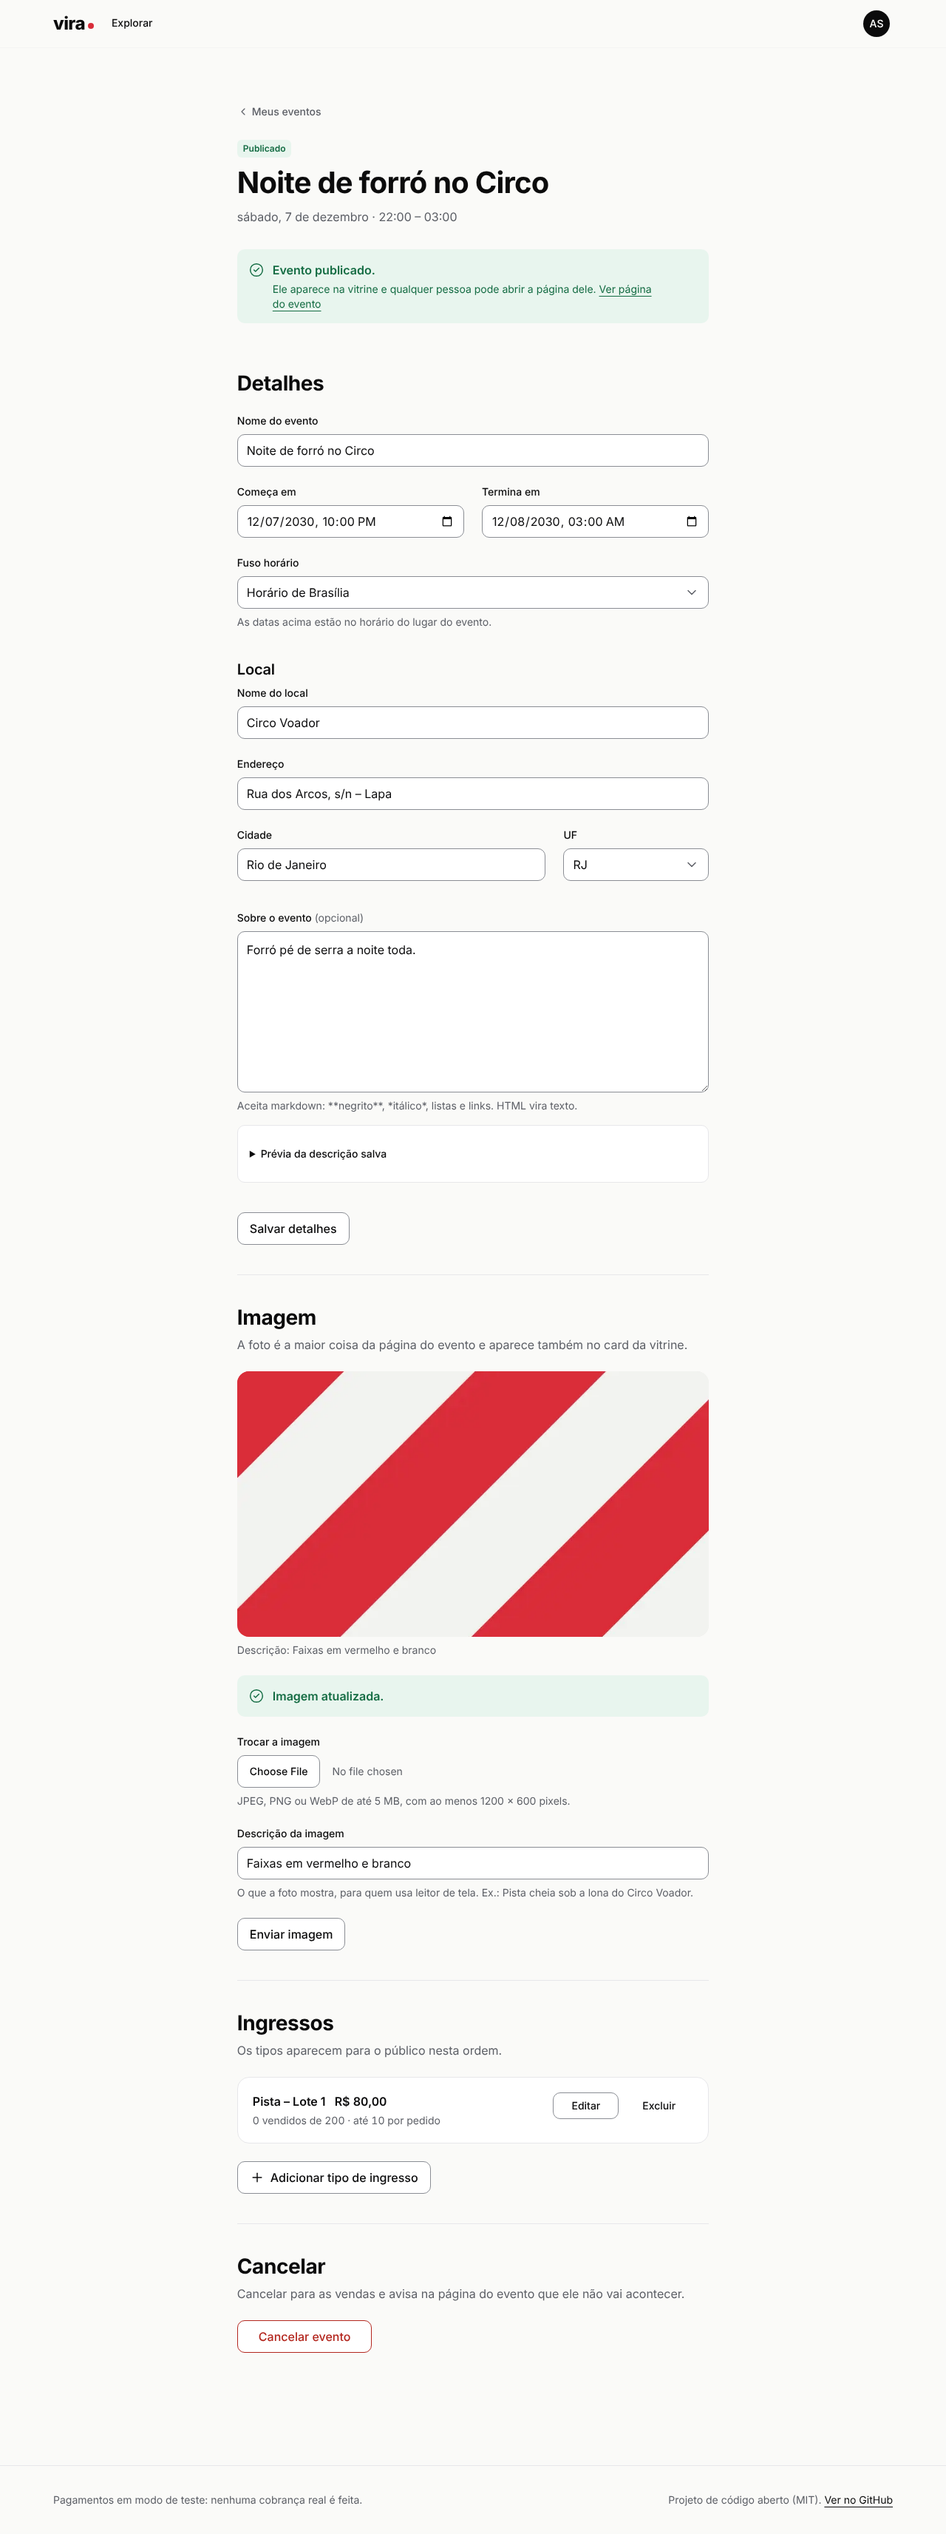
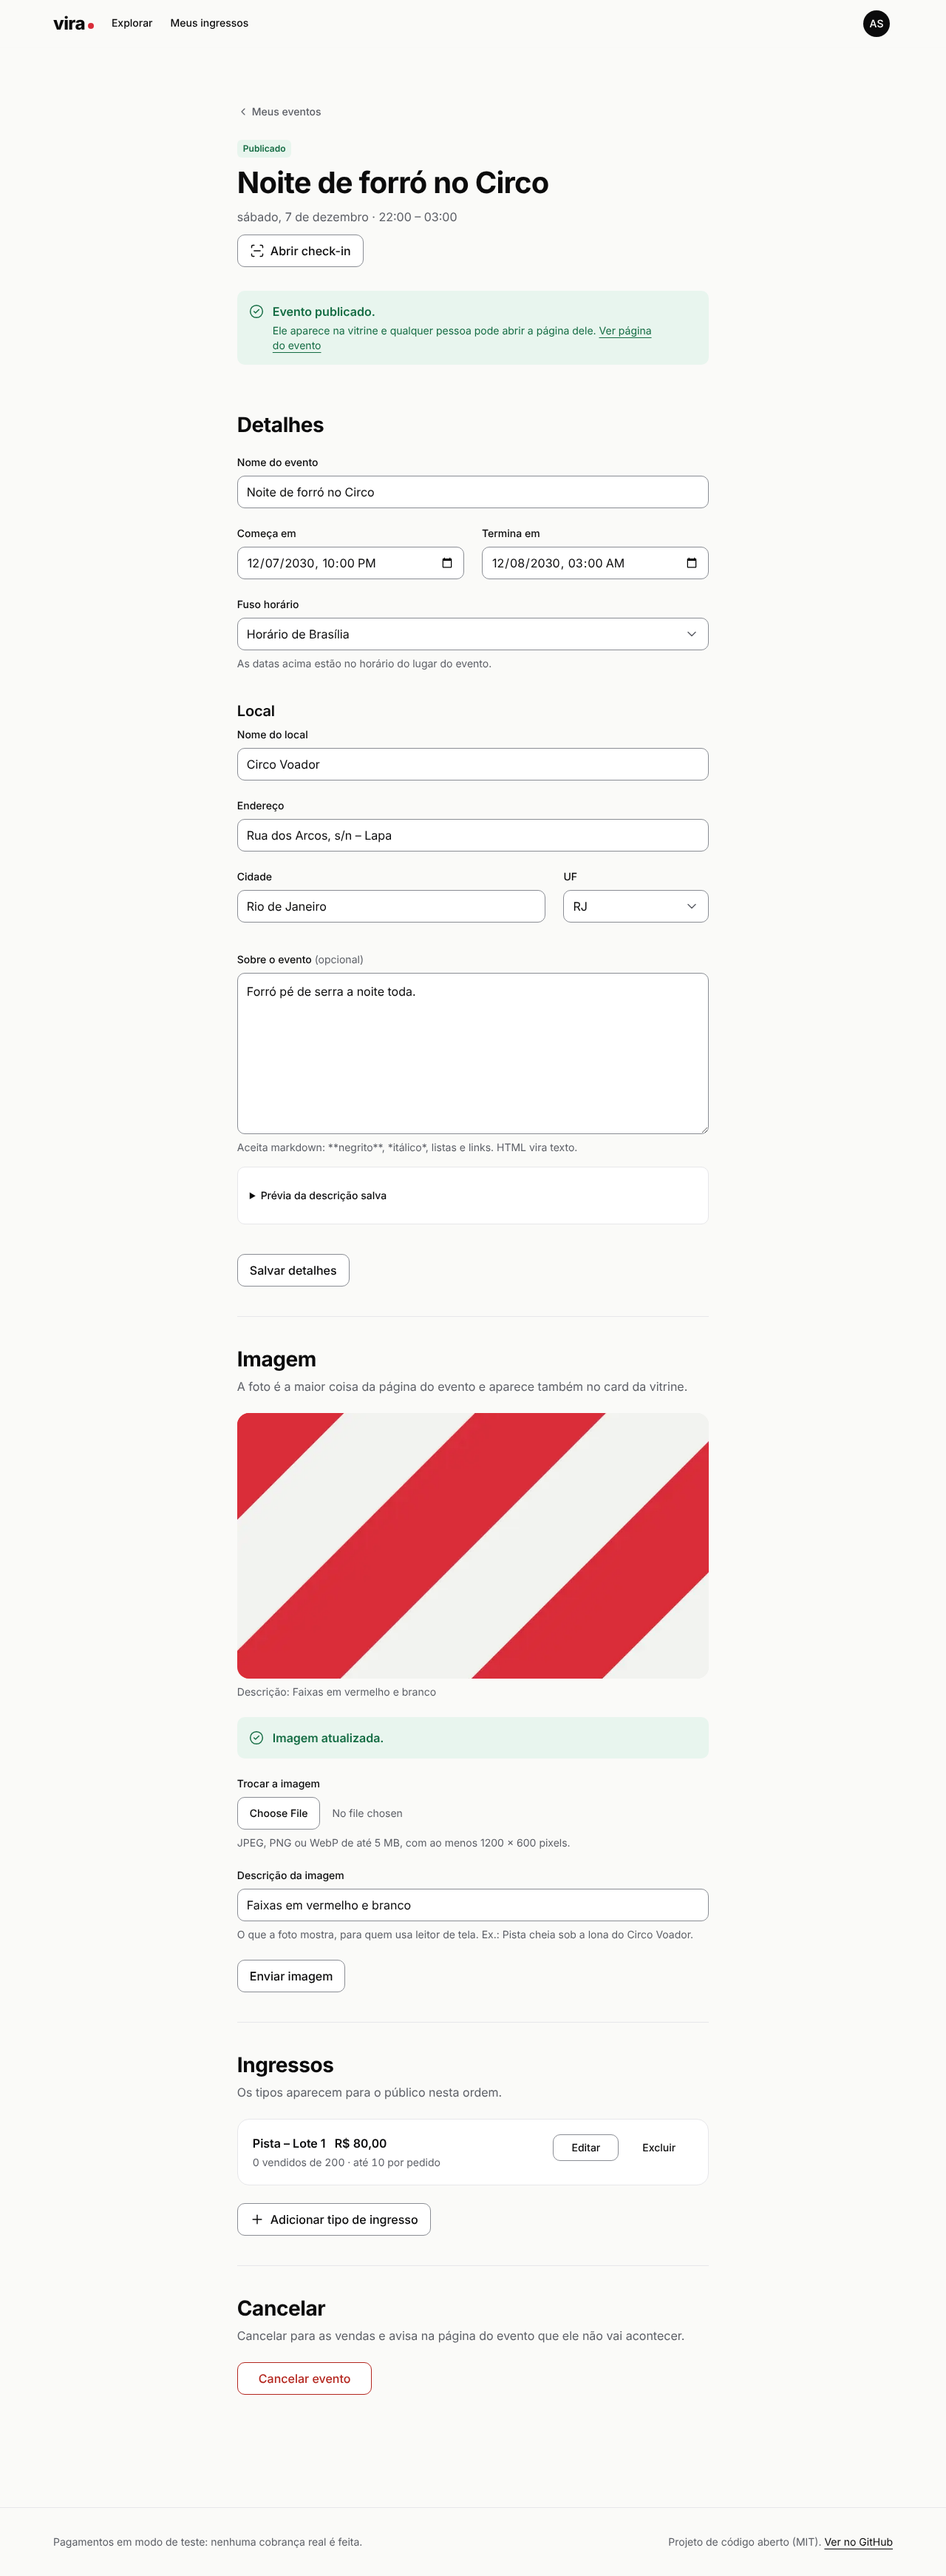
docs: describe the check-in
API, data model, security headers, design, roadmap and progress for
V8, with the screenshots of the door.

Claude-Session: https://claude.ai/code/session_01DPz6t3jfcjAA8iLnBWb4iy

diff --git a/PROGRESS.md b/PROGRESS.md
@@ -5,9 +5,9 @@ Arquivo para retomar o trabalho em outra sessão. **No início de cada sessão:*
 ## Estado atual
 
 - **Marco:** 2 — MVP público v1.0 (o Marco 1 terminou com a N13).
-- **Concluído (mergeado):** F1 a F7, N1 a N13, V1 a V6 (PRs #1, #2, #8, #10–#17, #26–#30, #32–#41) e Dependabot (#4–#7, #9 CodeQL v4). V7 no PR de meus ingressos (`feat/web-tickets`).
-- **Entregas abertas:** V7.
-- **Próximo passo:** V8 — Check-in (`feat/checkin`).
+- **Concluído (mergeado):** F1 a F7, N1 a N13, V1 a V7 (PRs #1, #2, #8, #10–#17, #26–#30, #32–#42) e Dependabot (#4–#7, #9 CodeQL v4). V8 no PR do check-in (`feat/checkin`).
+- **Entregas abertas:** V8.
+- **Próximo passo:** V9 — Direitos LGPD (`feat/users-privacy`).
 - **Bloqueios / pendências do mantenedor:** Docker Desktop não sobe nesta máquina pela sessão do agente (precisa ser iniciado pelo usuário); os testes de integração (Testcontainers) e o job de `docker compose` rodam só no CI até lá.
 
 ## Regras que valem sempre
@@ -22,6 +22,25 @@ Arquivo para retomar o trabalho em outra sessão. **No início de cada sessão:*
 - Código e commits em inglês; documentação em português (README também em inglês).
 
 ## Registro
+
+### 2026-10-22 — V8: check-in
+
+Auditoria (antes de codar): o QR assinado (ADR-0008) e o `verifyQrToken` já existiam (V5), assim como a ação de auditoria `ticket.checked_in`; faltavam a tabela `checkin_attempts`, as rotas e a tela. O `Permissions-Policy` desligava a câmera em todo o site.
+
+Feito:
+
+- API: módulo `checkin` com `POST /checkin/scan` e `POST /checkin/code` (só o organizador dono do evento; evento alheio responde `404`) e `GET /organizer/events/{id}/checkin/stats`. A entrada é decidida por um único `UPDATE ... WHERE status = 'VALID' AND event_id AND qr_nonce`; toda leitura vai para `checkin_attempts` (migração nova, com `CHECK` de que `VALID`/`ALREADY_USED`/`WRONG_EVENT` sempre nomeiam o ingresso) e cada entrada é auditada. Rate limit por operador: 120/min no QR, 20/min no código, gasto antes de qualquer consulta. O token passa pelo `QrTokens` do módulo `tickets` (API pública nova), que verifica com todas as chaves de `QR_SIGNING_KEYS`.
+- Contratos em `@vira/shared` (`checkin.ts`), com `normalizeTicketCode` (maiúsculas, prefixo, traços e O/I/L lidos como 0/1).
+- Web: `/painel/eventos/{id}/check-in` (link "Abrir check-in" no evento publicado ou encerrado), câmera ligada pelo operador e lida com jsQR (carregado só nessa página), código digitado, resultado em cor + ícone + texto grande (`aria-live="assertive"`, vibração curta), "Ler próximo", contagem de entradas e últimas leituras. Só esse caminho recebe `camera=(self)`.
+- Testes: unidade do `judge` e do caso de uso (corrida simulada, token forjado, limites); integração com Postgres real (duas leituras simultâneas → 1 `VALID` e 1 `ALREADY_USED`; oito misturando QR e código → 1 entrada; byte alterado, nonce trocado, outro evento, cancelado, autorização, 21º código → `429`, auditoria); E2E com a câmera falsa do Chromium lendo um QR de verdade (Y4M gerado no teste), códigos, todos os resultados, `Permissions-Policy`, axe; prints.
+
+Decisões tomadas por conta própria:
+
+- **Código de outro organizador responde `INVALID`**, não `WRONG_EVENT`: assim a digitação manual não serve para descobrir quais códigos existem. Entre eventos do mesmo organizador, e para QR assinado, `WRONG_EVENT`.
+- **Cancelado é `INVALID` com o ingresso** (titular, tipo e código), para o operador saber o que dizer; a resposta não ganhou um quinto resultado.
+- **Leitura pausa depois de cada resultado** até "Ler próximo": o mesmo QR parado na frente da câmera não vira um "Já utilizado" logo depois do "Válido".
+- **Câmera só com um toque** em "Ligar câmera", nunca ao abrir a página; sem câmera ou sem permissão, a tela manda para o código digitado.
+- **Check-in aberto também em evento encerrado** (há quem chegue atrasado); rascunho e cancelado mostram um aviso.
 
 ### 2026-10-22 — V7: meus ingressos e ingresso digital
 

diff --git a/docs/SECURITY_MODEL.md b/docs/SECURITY_MODEL.md
@@ -161,7 +161,7 @@ Decisões tomadas e riscos aceitos, para o revisor não precisar redescobri-los:
 | Autorização | Guard global "negar por padrão": toda rota declara `@Public()` ou um papel; teste automatizado falha se alguma rota não declarar. Posse verificada em `application` com políticas por recurso. |
 | Validação | Zod estrito (`.strict()`) em corpo, query e params; limites de tamanho em todos os textos e arrays. |
 | Markdown | `markdown-it` com HTML desligado → `sanitize-html` com allowlist (`p`, `strong`, `em`, `ul`, `ol`, `li`, `a[href]`, `h3`, `h4`, `blockquote`, `br`); links com `rel="noopener noreferrer nofollow ugc"`; só `https:` e `mailto:`. Renderizado no servidor e salvo; o web não usa `dangerouslySetInnerHTML` com conteúdo não sanitizado. Títulos `#` e `##` viram `h3` (o `h1` e o `h2` são da página); imagens somem; link para outro esquema fica só com o texto. Testado com payloads XSS em `sanitized-markdown-renderer.test.ts` e, contra o banco, em `events.int.test.ts`. |
-| Cabeçalhos | Helmet na API; no web: CSP com nonce gerado a cada requisição em `src/proxy.ts` (implementado no F7 com `default-src 'self'`, `script-src 'self' 'nonce-…' 'strict-dynamic'`, `object-src 'none'`, `base-uri 'none'`, `frame-ancestors 'none'`; os domínios do Stripe entram no checkout, V6). O `style-src` leva só `self` e o nonce (sem `unsafe-inline` em produção): por isso os componentes de interface não escrevem `style` inline no HTML do servidor e o `<style>` do travamento de rolagem dos modais recebe o nonce (N2). Desenho completo: (`default-src 'self'; script-src 'self' 'nonce-…' https://js.stripe.com; frame-src https://js.stripe.com https://hooks.stripe.com; img-src 'self' data: <cdn do R2>; connect-src 'self' https://api.stripe.com; object-src 'none'; base-uri 'none'; frame-ancestors 'none'`), HSTS, `Referrer-Policy: strict-origin-when-cross-origin`, `Permissions-Policy` (câmera só na rota de check-in). |
+| Cabeçalhos | Helmet na API; no web: CSP com nonce gerado a cada requisição em `src/proxy.ts` (implementado no F7 com `default-src 'self'`, `script-src 'self' 'nonce-…' 'strict-dynamic'`, `object-src 'none'`, `base-uri 'none'`, `frame-ancestors 'none'`; os domínios do Stripe entram no checkout, V6). O `style-src` leva só `self` e o nonce (sem `unsafe-inline` em produção): por isso os componentes de interface não escrevem `style` inline no HTML do servidor e o `<style>` do travamento de rolagem dos modais recebe o nonce (N2). Desenho completo: (`default-src 'self'; script-src 'self' 'nonce-…' https://js.stripe.com; frame-src https://js.stripe.com https://hooks.stripe.com; img-src 'self' data: <cdn do R2>; connect-src 'self' https://api.stripe.com; object-src 'none'; base-uri 'none'; frame-ancestors 'none'`), HSTS, `Referrer-Policy: strict-origin-when-cross-origin`, `Permissions-Policy` (câmera só na rota de check-in: `camera=(self)` em `/painel/eventos/:id/check-in`, `camera=()` no resto, V8). |
 | CORS | Somente a origem do web; credenciais permitidas; webhook sem CORS. |
 | Limites | Body JSON 100 kB; paginação máx. 50; timeouts de requisição 10 s; consultas com `statement_timeout` de 5 s. |
 | Upload | URL pré-assinada de `PUT` com `Content-Type` e `Content-Length` fixados na assinatura, expiração de 5 min, chave gerada pelo servidor; bucket privado, com CORS só para o `WEB_ORIGIN` e só `PUT`; confirmação lê o objeto pela chave guardada (nunca uma URL do cliente), valida tamanho, magic bytes e dimensões, decodifica com limite de 40 megapixels (contra "pixel bombs"); imagens re-encodadas para WebP (remove EXIF/GPS) antes de servir, e o original é apagado; servidas por URL assinada de `GET` (1 h); job apaga envios abandonados e imagens trocadas. Implementado na N9 e testado contra SeaweedFS real (`event-images.int.test.ts`): assinatura recusando outro tipo e outro tamanho, preflight CORS, arquivo falso, imagem pequena, EXIF removido. |

diff --git a/docs/ROADMAP.md b/docs/ROADMAP.md
@@ -53,7 +53,7 @@ Objetivo: comprar, receber e usar um ingresso, com a demo publicada.
 | V5 | Emissão de ingressos | `feat/tickets-issuance` | Tickets criados na transação do pagamento (trigger impede emissão para pedido não pago — teste); token HMAC com `kid` e nonce; e-mail com link do ingresso via outbox; `GET /tickets` e `/tickets/{id}` com testes de posse. Também entrou: trigger também confere a linha do pedido, o evento e a quantidade; `QR_SIGNING_KEYS` com rotação por `kid`; token só na codificação base64url canônica; `Cache-Control: no-store` no ingresso; cursor preso ao comprador; `orders` expõe `OrderEvents` (sem dependência de `tickets`); `orders.paid` saiu da outbox; titular = nome do comprador até a V6. | ✅ |
 | V6 | Checkout | `feat/web-checkout` | Fluxo seleção → dados → pagamento com Payment Element; contador de reserva acessível com extensão; tela de confirmação; reserva expirada tratada; E2E com cartão de teste e webhook simulado; prints. Também entrou: `PUT /orders/{id}/holders` com `CHECK` no banco e pagamento exigindo os titulares; `orderId` no `pending-order-exists` para retomar a reserva; escolha preservada no endereço pelo login; header de checkout sem navegação; CSP liberando só as origens do Stripe; Stripe.js carregado só na etapa de pagamento. | ✅ |
 | V7 | Meus ingressos e ingresso digital | `feat/web-tickets` | Lista e componente de ingresso conforme o DESIGN.md (recortes, QR em destaque, estados `VALID`/`USED`/`CANCELED`, tela cheia, impressão); E2E + axe; prints. Também entrou: abas Próximos/Passados com "Carregar mais"; outros ingressos do mesmo pedido (lista no desktop, anterior/próximo no mobile); "Meus ingressos" no header e no menu da conta; confirmação do checkout levando aos ingressos; QR desenhado como um `<path>` SVG (sem HTML injetado nem estilo inline). | ✅ |
-| V8 | Check-in | `feat/checkin` | `POST /checkin/scan` e `/checkin/code`; uso único (teste de duas leituras simultâneas); respostas `VALID`/`ALREADY_USED`/`WRONG_EVENT`/`INVALID`; rate limit; tela com câmera e resultado inconfundível; E2E. | ⬜ |
+| V8 | Check-in | `feat/checkin` | `POST /checkin/scan` e `/checkin/code`; uso único (teste de duas leituras simultâneas); respostas `VALID`/`ALREADY_USED`/`WRONG_EVENT`/`INVALID`; rate limit; tela com câmera e resultado inconfundível; E2E. | ✅ |
 | V9 | Direitos LGPD | `feat/users-privacy` | `GET /me/export` e `DELETE /me` (anonimização) com testes que provam a ausência dos dados originais; jobs de retenção; página `/privacidade`; telas de conta. | ⬜ |
 | V10 | Endurecimento | `chore/security-hardening` | Revisão de rate limits e CSP; checklist ASVS do SECURITY_MODEL atualizado; varredura OWASP ZAP baseline sem achados altos; Sentry configurado sem PII (teste do `beforeSend`). | ⬜ |
 | V11 | Deploy da demo e v1.0.0 | `chore/deploy` | `render.yaml`, configuração da Vercel, Neon, Upstash, R2 e Resend; variáveis documentadas; seed de demo aplicado; smoke test pós-deploy; README com link da demo e prints; tag `v1.0.0`. **Somente com autorização explícita do mantenedor.** | ⬜ |

diff --git a/docs/API.md b/docs/API.md
@@ -407,6 +407,15 @@ Emissão (V5): um ingresso por unidade de cada linha, na mesma transação do we
 | POST | `/checkin/code` | ORGANIZER* do evento | `{ eventId, code }` | mesmo formato | 400, 401, 404, 429 | 20/min/operador |
 | GET | `/organizer/events/{id}/checkin/stats` | ORGANIZER* | — | `200 { checkedIn, total, lastScans: [...] }` | 404 | — |
 
+Implementado no V8. O resultado de uma leitura é sempre `200`; o `ticket` traz só `code`, `holderName` e `ticketType` (nada do comprador):
+
+- `VALID`: o ingresso entrou agora. A entrada é decidida por um único `UPDATE ... WHERE status = 'VALID'` (com o `event_id` e, no QR, o `qr_nonce`): de leituras simultâneas, só uma recebe `VALID` e as outras `ALREADY_USED`.
+- `ALREADY_USED`: com `ticket` e `usedAt`.
+- `WRONG_EVENT`: ingresso de outro evento, sem `ticket`. Num código digitado, só quando o outro evento é do mesmo organizador; código de evento alheio responde `INVALID`, para que a digitação não revele quais códigos existem.
+- `INVALID`: token que não é nosso (formato, `kid` ou assinatura; recusado sem consultar o banco), QR de antes de uma reemissão, código inexistente. Com `ticket`, é um ingresso cancelado deste evento.
+
+O código aceita minúsculas, espaços, traços e a falta do prefixo `VIRA`, e lê O como 0 e I ou L como 1 (Crockford); fora disso, `400`. O rate limit é por operador e é gasto antes de qualquer consulta. Toda leitura que passa do rate limit e da posse do evento fica em `checkin_attempts`; cada `VALID` é auditado como `ticket.checked_in`. `total` conta os ingressos `VALID` e `USED`; `lastScans` traz as 5 últimas leituras, com o `ticket` só quando ele é deste evento. As três rotas respondem `Cache-Control: no-store`.
+
 ### Administração (`admin`)
 
 | Método | Rota | Papel | Sucesso | Erros |

diff --git a/docs/DESIGN.md b/docs/DESIGN.md
@@ -449,6 +449,8 @@ O componente mais característico da marca. Inspirado em ingresso físico, com d
 - **Stepper de checkout:** "1 Ingressos · 2 Seus dados · 3 Pagamento", `overline`, etapa atual em `ink` com sublinhado `accent`, concluídas com check. Em `<nav aria-label="Etapas">` com `aria-current="step"`.
 - **Resultado de check-in (tela do organizador):** cartão de largura total com três estados inconfundíveis por cor **e** ícone **e** texto grande: ✓ "Válido" (`success`), ⟲ "Já utilizado às 21:42" (`warning`), ✕ "Inválido" (`danger`). Anunciado via `aria-live="assertive"` e vibração curta no mobile.
 
+**Como ficou implementado (V8).** Em `/painel/eventos/{id}/check-in`: a câmera num quadrado escuro com moldura de mira, ligada só pelo botão "Ligar câmera" (sem permissão ou sem câmera, um alert `warning` manda para o código); ao lado (desktop) ou abaixo (mobile), o resultado, "Validar pelo código" e a contagem "N de M ingressos entraram" com as cinco últimas leituras. Além dos três estados acima, ✕ "Outro evento" e ✕ "Cancelado" (com o titular) em `danger`; todo resultado negativo diz "Não libere a entrada.". O titular aparece em `h2`, tipo e código abaixo. O ícone do resultado tem 40 px, fora das três medidas do sistema, porque é lido a um braço de distância. A leitura pausa depois de cada resultado até "Ler próximo". Vibração: um pulso para válido, três para os outros.
+
 ---
 
 ## 4. Wireframes

diff --git a/docs/DATA_MODEL.md b/docs/DATA_MODEL.md
@@ -355,8 +355,9 @@ Registro de toda tentativa de validação (válida ou não), para auditoria e de
 | `operator_id` | uuid | Usuário que escaneou |
 | `result` | enum | `VALID`, `ALREADY_USED`, `INVALID`, `WRONG_EVENT` |
 | `method` | enum | `QR`, `CODE` |
+| `created_at` | timestamptz | Momento da leitura |
 
-Índice: `(event_id, created_at)`. Retenção: 90 dias após o fim do evento.
+Índices: `(event_id, created_at)`, `(ticket_id)`, `(operator_id)`. `CHECK`: `VALID`, `ALREADY_USED` e `WRONG_EVENT` sempre têm `ticket_id` (um `INVALID` tem quando o ingresso existe: cancelado ou QR de antes de uma reemissão). Todas as FKs são `ON DELETE RESTRICT`. Criada no V8. Retenção: 90 dias após o fim do evento.
 
 ### `processed_webhook_events`
 
